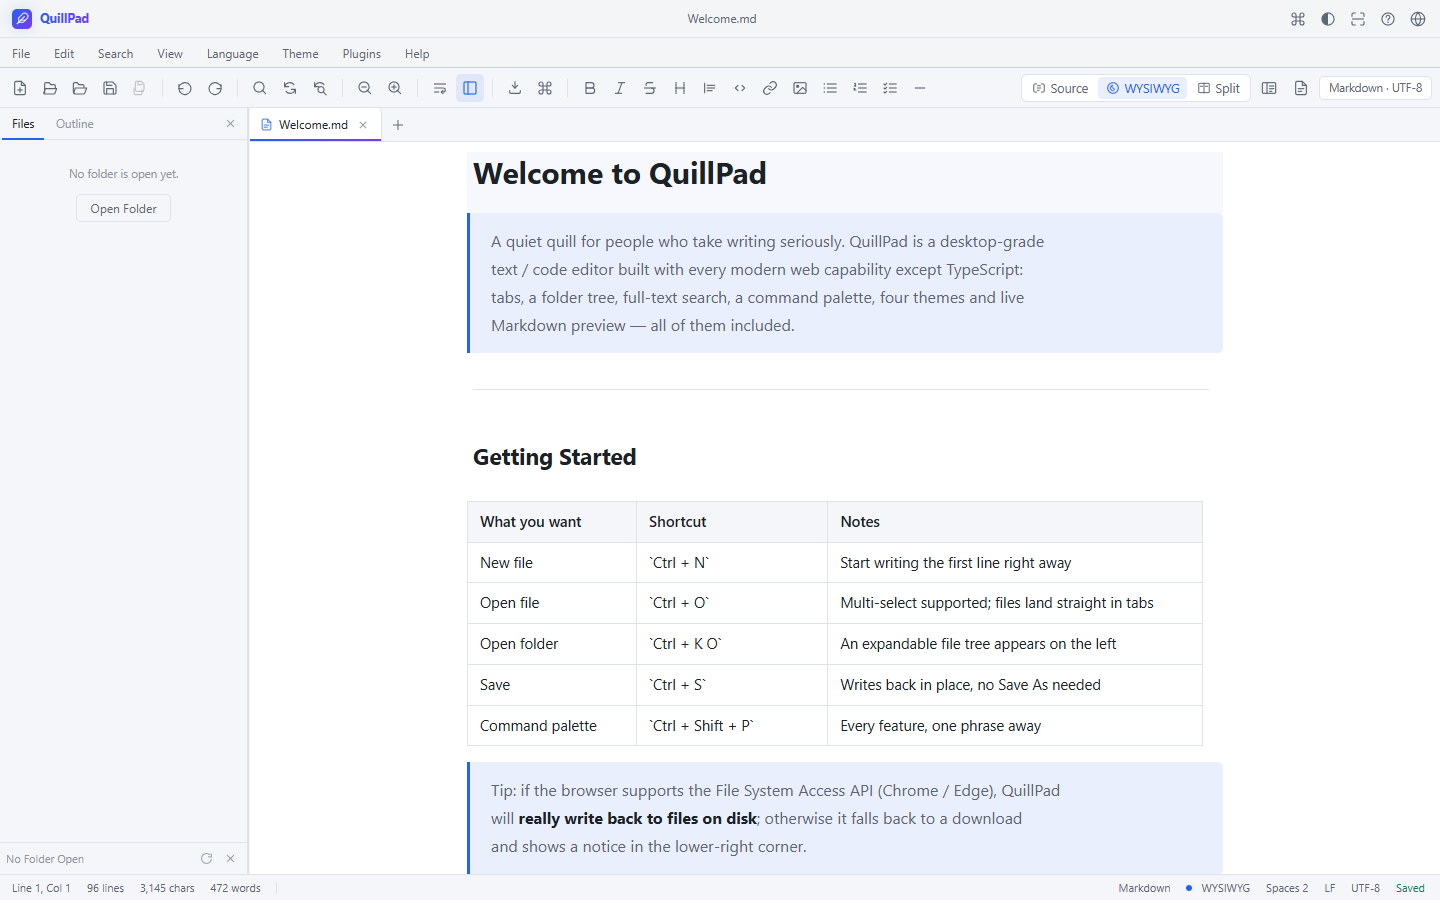
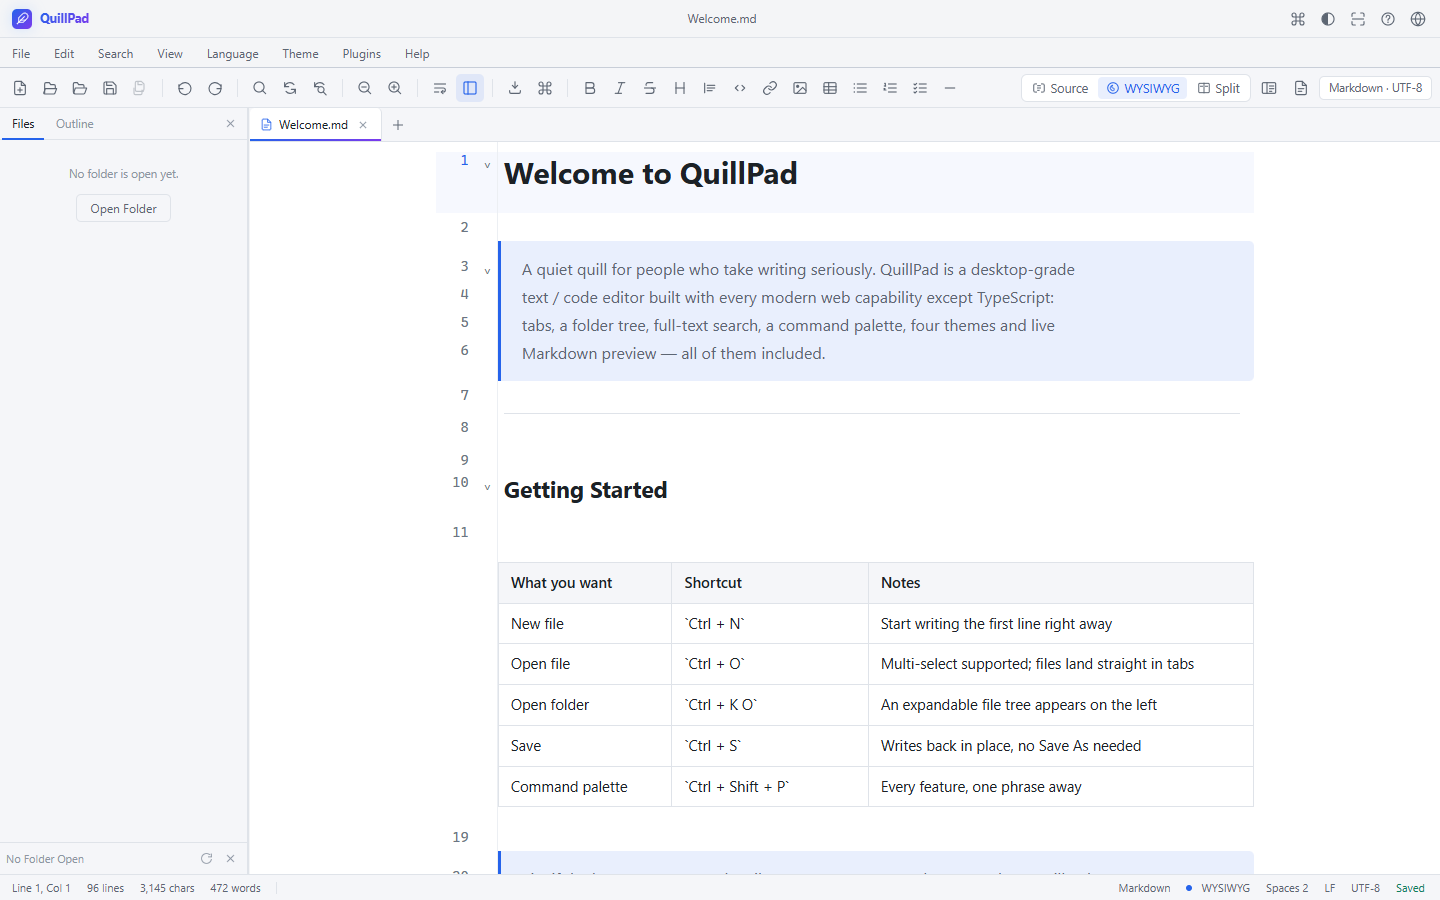
chore(release): 1.0.4 版本号、变更记录与文档同步
- 三处版本号同步到 1.0.4（package.json / package-lock.json / src/core/version.js）
- CHANGELOG 新增 v1.0.4 段：行号栏与折叠箭头回归、插入表格、空行按钮、
  空行高度、--- 选区跳动、表格宽度、围栏行、行末向右键
- README / USER-GUIDE（中英）改掉「所见即所得不显示行号栏」的旧说法，
  补上插入表格与空行按钮的行为
- THIRD-PARTY-NOTICES 三份随版本号重新生成
- README 截图重拍（主界面现在带行号栏与折叠箭头）
- blocks.js 注释里的版本归属改正为 v1.0.4

diff --git a/src/editor/wysiwyg/blocks.js b/src/editor/wysiwyg/blocks.js
@@ -202,7 +202,7 @@ export function computeBlocks(state, opts, prev) {
   }
 
   /* 空行：类名 `qp-blank` 保留给 CSS 与其它模块判「这是无块级语义的空行」，
-     但 v1.0.3 起 CSS 不再压缩它 —— 空行与正文行同高（整行 28px）。 */
+     但 v1.0.4 起 CSS 不再压缩它 —— 空行与正文行同高（整行 28px）。 */
   for (const info of scan.lines) {
     if (!info || info.kind !== 'plain') continue;
     const line = state.doc.line(info.number);

diff --git a/src/core/version.js b/src/core/version.js
@@ -13,9 +13,9 @@
  * `license:check` 的比对都要求纯数字形式。要给人看的带 `v` 形式用下面的
  * `APP_VERSION_LABEL`。
  */
-export const APP_VERSION = '1.0.3';
+export const APP_VERSION = '1.0.4';
 
-/** 展示用版本号：`v1.0.3`（界面上只要出现版本号，一律用这个）。 */
+/** 展示用版本号：`v1.0.4`（界面上只要出现版本号，一律用这个）。 */
 export const APP_VERSION_LABEL = `v${APP_VERSION}`;
 
 /** 产品名。 */

diff --git a/USER-GUIDE.en.md b/USER-GUIDE.en.md
@@ -1,14 +1,14 @@
-# QuillPad 1.0.3 User Guide
+# QuillPad 1.0.4 User Guide
 
-> English · for v1.0.3 · MIT licensed · repository <https://github.com/Frank-TCA/quillpad-desktop>
+> English · for v1.0.4 · MIT licensed · repository <https://github.com/Frank-TCA/quillpad-desktop>
 
 The installers live in `dist/release/` (you can copy them anywhere):
 
 | File | Purpose | Size |
 | --- | --- | --- |
-| `QuillPad-Setup-v1.0.3.exe` | Installer | ~127 MB |
-| `QuillPad-v1.0.3-portable.exe` | Portable | ~115 MB |
-| `QuillPad-Uninstaller-v1.0.3.exe` | Standalone uninstaller (installer build only) | ~80 KB |
+| `QuillPad-Setup-v1.0.4.exe` | Installer | ~128 MB |
+| `QuillPad-v1.0.4-portable.exe` | Portable | ~115 MB |
+| `QuillPad-Uninstaller-v1.0.4.exe` | Standalone uninstaller (installer build only) | ~80 KB |
 
 > Exact byte counts and SHA256 checksums are listed on the corresponding release page.
 
@@ -25,9 +25,10 @@ QuillPad is open source under the MIT license: <https://github.com/Frank-TCA/qui
 
 ### Typesetting and writing
 
-- Three view modes — source / WYSIWYG / split — switch directly with `Ctrl+Shift+1` / `2` / `3`. Source mode is a code editor with a fixed 14 px monospace face; WYSIWYG and the split preview are reading surfaces with a 16 px / 28 px line-height / 736 px (46 em) width sans-serif body. **WYSIWYG shows no line-number column and no fold arrows** (a reading surface does not need them); switch to source or split when you want them.
+- Three view modes — source / WYSIWYG / split — switch directly with `Ctrl+Shift+1` / `2` / `3`. Source mode is a code editor with a fixed 14 px monospace face; WYSIWYG and the split preview are reading surfaces with a 16 px / 28 px line-height / 736 px (46 em) width sans-serif body. All three views keep the line-number column and fold arrows, and in WYSIWYG both stay aligned row by row with the text.
 - WYSIWYG renders headings, bold and italic, strikethrough, inline code, links, quotes, lists, task items, code blocks, tables, images, math (KaTeX), footnotes, and a table of contents in place; source markers appear on the line your cursor is on. A single click selects a whole table block, a double click enters cell editing.
 - Table parsing/serialization, adding and removing rows and columns, cycling column alignment, `Tab` to move between cells; drag or paste an image and it lands in an `assets\` folder next to the document, with a random suffix when the name is taken — existing files are never overwritten.
+- The Markdown toolbar places **Insert table** right after Insert image: one click drops a 3-column, 2-row table skeleton with the caret in the first cell. Bullet, numbered and task lists, Heading 2 and Blockquote also work **on an empty line** (no need to type text first) — the caret lands after the prefix, ready for input.
 - Macro recording, playback, and persistence (a red breathing dot appears in the **bottom-right** of the status bar while recording; click it to stop and name the macro); rectangular (column) selection with insert, delete, align, and number; a searchable panel of ~840 special characters in 10 categories (plus the last 20 you used); find history (up to 20 entries — press `↓` in an empty search box to recall the most recent one).
 - Design tokens (`--qp-*` variables) with four themes; **Reduce Motion** is supported.
 
@@ -51,7 +52,7 @@ QuillPad is open source under the MIT license: <https://github.com/Frank-TCA/qui
 
 ## 2. Using the installer build (recommended)
 
-1. Double-click `QuillPad-Setup-v1.0.3.exe`.
+1. Double-click `QuillPad-Setup-v1.0.4.exe`.
 2. On first run Windows may show “Windows protected your PC”. Every new program without a code-signing certificate gets this prompt; it does not mean the file is infected. Click **More info** → **Run anyway**.
 3. **The installer's own UI is Chinese** — only `zh_CN` is bundled (`installerLanguages: zh_CN`, language id 2052). You can still pick the installation directory on the page with the path field. `perMachine=false`, so it installs into your user profile: no administrator rights and no UAC prompt. You can tick “run now” at the end.
 4. Start menu and desktop shortcuts are created; the uninstaller `Uninstall QuillPad.exe` lives in the installation directory rather than being left behind in your downloads folder.
@@ -76,7 +77,7 @@ Unticked groups are only registered as candidates in **Open with** and never tou
 
 You can change it later without reinstalling: **menu → File → File Associations…**. The dialog is filled from the registry's real state (all default / some / none), and **Apply** only writes the groups that actually differ. Its **Open Windows Default Apps…** button jumps to the system page, where **Settings → Apps → Default apps → QuillPad** also lets you flip individual types.
 
-For unattended deployment that must not touch default associations: `QuillPad-Setup-v1.0.3.exe /S /NOASSOC`.
+For unattended deployment that must not touch default associations: `QuillPad-Setup-v1.0.4.exe /S /NOASSOC`.
 
 All of these entries live under `HKCU`, need no administrator rights, and are unregistered on uninstall — including the default associations, the capability registration (`Software\QuillPad\Capabilities` plus `RegisteredApplications`), the ProgID and the context menu. **Only entries pointing at QuillPad are removed**; a type you later reassigned to another program is left alone.
 
@@ -84,7 +85,7 @@ Right-click any file → **Open with QuillPad** works too. Selecting several fil
 
 ## 3. Using the portable build
 
-1. Put `QuillPad-v1.0.3-portable.exe` by itself in an empty folder (a USB stick works) and double-click it. It is a single-file self-extracting package: nothing to install, no registry writes, no shortcuts.
+1. Put `QuillPad-v1.0.4-portable.exe` by itself in an empty folder (a USB stick works) and double-click it. It is a single-file self-extracting package: nothing to install, no registry writes, no shortcuts.
 2. Startup takes 3–5 seconds because the single-file build unpacks itself into the system temp directory each time.
 3. All user data (session, theme, recent files, window position, macros, plugins and their state, caches) is written to a `QuillPad-Data\` folder **next to the exe**. Measured: after a run that folder holds 81 files including `window-state.json`, and `%APPDATA%\QuillPad` gains nothing while the portable build runs.
 4. To move to another machine, copy the exe together with `QuillPad-Data\` and all your settings come along.
@@ -96,7 +97,7 @@ Right-click any file → **Open with QuillPad** works too. Selecting several fil
 1. Start menu → the **卸载 QuillPad** shortcut;
 2. `Uninstall QuillPad.exe` in the installation directory;
 3. Windows **Settings → Apps → Installed apps** (or **Programs and Features** in Control Panel) → select **QuillPad 文本编辑器** → Uninstall;
-4. Double-click the distributed `QuillPad-Uninstaller-v1.0.3.exe` (the standalone uninstaller, about 78 KB).
+4. Double-click the distributed `QuillPad-Uninstaller-v1.0.4.exe` (the standalone uninstaller, about 78 KB).
 
 All four run the same cleanup logic and behave identically — pick whichever is convenient.
 
@@ -112,8 +113,8 @@ The fourth one is a small tool with its own scavenger that depends on nothing in
 Command line (for scripts and batch files):
 
 ```bat
-QuillPad-Uninstaller-v1.0.3.exe /S          silent uninstall, no dialogs
-QuillPad-Uninstaller-v1.0.3.exe /SCAN /S    scan only, delete nothing
+QuillPad-Uninstaller-v1.0.4.exe /S          silent uninstall, no dialogs
+QuillPad-Uninstaller-v1.0.4.exe /SCAN /S    scan only, delete nothing
 ```
 
 Exit codes: `0` = clean, `1` = traces found, `2` = some items could not be deleted, `3` = cancelled by the user.
@@ -135,7 +136,7 @@ Deleting only the installation directory leaves dead entries in the context menu
 
 ### Portable build
 
-No registry writes and no shortcuts, so **no uninstaller is needed**: delete `QuillPad-v1.0.3-portable.exe` and the `QuillPad-Data\` folder next to it. Measured: afterwards only the exe remains in its folder, `%APPDATA%\QuillPad` has gained nothing, and no user data is left on the system.
+No registry writes and no shortcuts, so **no uninstaller is needed**: delete `QuillPad-v1.0.4-portable.exe` and the `QuillPad-Data\` folder next to it. Measured: afterwards only the exe remains in its folder, `%APPDATA%\QuillPad` has gained nothing, and no user data is left on the system.
 
 ### The one-line difference
 

diff --git a/USER-GUIDE.zh-CN.md b/USER-GUIDE.zh-CN.md
@@ -1,14 +1,14 @@
-# QuillPad 1.0.3 使用说明
+# QuillPad 1.0.4 使用说明
 
-> 简体中文 · 对应 v1.0.3 · MIT 许可 · 仓库 <https://github.com/Frank-TCA/quillpad-desktop>
+> 简体中文 · 对应 v1.0.4 · MIT 许可 · 仓库 <https://github.com/Frank-TCA/quillpad-desktop>
 
 安装包位于 `dist/release/` 目录（可复制到任意位置使用）：
 
 | 文件 | 说明 | 大小 |
 | --- | --- | --- |
-| `QuillPad-Setup-v1.0.3.exe` | 安装版 | 约 127 MB |
-| `QuillPad-v1.0.3-portable.exe` | 便携版 | 约 115 MB |
-| `QuillPad-Uninstaller-v1.0.3.exe` | 独立卸载器（仅安装版需要） | 约 80 KB |
+| `QuillPad-Setup-v1.0.4.exe` | 安装版 | 约 128 MB |
+| `QuillPad-v1.0.4-portable.exe` | 便携版 | 约 115 MB |
+| `QuillPad-Uninstaller-v1.0.4.exe` | 独立卸载器（仅安装版需要） | 约 80 KB |
 
 > 每个文件的精确字节数与 SHA256 见对应 Release 页面的附件说明。
 
@@ -25,9 +25,10 @@
 
 ### 排版与写作
 
-- 三种视图：源码 / 所见即所得（WYSIWYG）/ 分栏；`Ctrl+Shift+1` / `2` / `3` 直切。源码模式是代码编辑器，保持 14px 等宽字体；WYSIWYG 与分栏预览是阅读面，统一 16px / 行高 28px / 栏宽 736px（46em）无衬线正文。**所见即所得不显示行号栏与折叠箭头**（阅读面不需要），需要行号与折叠请切到源码或分栏。
+- 三种视图：源码 / 所见即所得（WYSIWYG）/ 分栏；`Ctrl+Shift+1` / `2` / `3` 直切。源码模式是代码编辑器，保持 14px 等宽字体；WYSIWYG 与分栏预览是阅读面，统一 16px / 行高 28px / 栏宽 736px（46em）无衬线正文。三种视图都带行号栏与折叠箭头，所见即所得下两者与正文逐行对齐。
 - WYSIWYG 就地渲染标题、粗斜体、删除线、行内代码、链接、引用、列表、任务项、代码块、表格、图片、公式（KaTeX）、脚注与目录；光标进入该行时按需露出源码标记。表格单击选中整个表格块，双击才进入单元格编辑。
 - 表格解析/序列化、行列增删、列对齐循环、`Tab` 跳格；图片拖拽/粘贴后落到文档同目录 `assets\`，同名自动加随机后缀，不会覆盖已有文件。
+- Markdown 工具栏在「插入图片」之后紧接「插入表格」，一键落一张 3 列 2 行的表格骨架、光标进首格；有序/无序/任务列表、二级标题、引用这些按钮**在空行上直接点也生效**（不必先敲字），点完光标落在前缀之后，可以接着输入。
 - 宏录制/回放/持久化（录制中状态栏**右下角**出现红色呼吸圆点，点它即可停止并命名保存）；矩形（列）选区的插入、删除、对齐、编号；10 个分类、共约 840 个特殊字符的检索面板（另带「最近使用 20 条」）；查找历史（最多 20 条，空输入框按 `↓` 回填最近一条）。
 - 排版 token（`--qp-*` 变量）与四套主题；支持「减少动效」。
 
@@ -51,7 +52,7 @@
 
 ## 二、安装版用法（推荐）
 
-1. 双击 `QuillPad-Setup-v1.0.3.exe`。
+1. 双击 `QuillPad-Setup-v1.0.4.exe`。
 2. 首次运行可能弹「Windows 已保护你的电脑」—— 这是未购买代码签名证书的新程序都会有的提示，不是病毒。点「更多信息」→「仍要运行」。
 3. 安装器是中文界面，可选安装目录；`perMachine=false`，装到当前用户目录，不需要管理员权限、不弹 UAC。装完可勾选立即运行。
 4. 会创建开始菜单与桌面快捷方式；卸载程序 `Uninstall QuillPad.exe` 就在安装目录里，不会单独留在下载文件夹。
@@ -76,7 +77,7 @@
 
 装完之后还能改：**菜单 → 文件 → 文件关联…**。对话框按注册表真实状态回填（全部为默认 / 部分 / 未设），勾选后点「应用」，只对发生变化的组写一次；里面的「打开 Windows 默认应用设置…」直接跳到系统页面，也能在「设置 → 应用 → 默认应用 → QuillPad」里逐项改。
 
-企业批量部署想完全不动默认关联：`QuillPad-Setup-v1.0.3.exe /S /NOASSOC`。
+企业批量部署想完全不动默认关联：`QuillPad-Setup-v1.0.4.exe /S /NOASSOC`。
 
 这些注册项都在 `HKCU` 下，不需要管理员权限；卸载时默认关联、能力注册（`Software\QuillPad\Capabilities` 与 `RegisteredApplications`）、ProgID、右键菜单全部反注册。**只撤销指向 QuillPad 的项**：你后来自己改回别的程序的类型不会被误删。
 
@@ -84,7 +85,7 @@
 
 ## 三、便携版用法
 
-1. 把 `QuillPad-v1.0.3-portable.exe` 单独放到一个空文件夹（例如 U 盘目录），双击即可运行。它是单文件自解压包，不需要安装、不写注册表、不创建快捷方式。
+1. 把 `QuillPad-v1.0.4-portable.exe` 单独放到一个空文件夹（例如 U 盘目录），双击即可运行。它是单文件自解压包，不需要安装、不写注册表、不创建快捷方式。
 2. 启动要 3–5 秒：单文件版每次会先把自身解压到系统临时目录。
 3. 所有用户数据（会话、主题、最近文件、窗口位置、宏、插件与插件状态、缓存）都写在 exe **同目录**下的 `QuillPad-Data\` 文件夹里。实测：运行后该目录含 `window-state.json` 等 81 个文件；`%APPDATA%\QuillPad` 在便携运行期间没有新增任何文件。
 4. 更换电脑或移动 exe 时，连同 `QuillPad-Data\` 一起拷贝即可带走全部设置。
@@ -96,7 +97,7 @@
 1. 开始菜单 →「卸载 QuillPad」快捷方式；
 2. 安装目录下的 `Uninstall QuillPad.exe`；
 3. Windows「设置 → 应用 → 已安装的应用」（或控制面板「程序和功能」）里选中「QuillPad 文本编辑器」→ 卸载；
-4. 直接双击分发文件 `QuillPad-Uninstaller-v1.0.3.exe`（独立卸载器，约 78 KB）。
+4. 直接双击分发文件 `QuillPad-Uninstaller-v1.0.4.exe`（独立卸载器，约 78 KB）。
 
 四个入口执行的是同一套清理逻辑，效果一致，任选其一。
 
@@ -112,8 +113,8 @@
 命令行用法（脚本 / 批处理）：
 
 ```bat
-QuillPad-Uninstaller-v1.0.3.exe /S          静默卸载，不弹对话框
-QuillPad-Uninstaller-v1.0.3.exe /SCAN /S    只扫描不删除
+QuillPad-Uninstaller-v1.0.4.exe /S          静默卸载，不弹对话框
+QuillPad-Uninstaller-v1.0.4.exe /SCAN /S    只扫描不删除
 ```
 
 退出码：`0` = 干净，`1` = 有痕迹，`2` = 清理时有删不掉的项，`3` = 用户取消。
@@ -135,7 +136,7 @@ QuillPad-Uninstaller-v1.0.3.exe /SCAN /S    只扫描不删除
 
 ### 便携版
 
-不写任何注册表、不建快捷方式，因此**不需要卸载程序**：直接删除 `QuillPad-v1.0.3-portable.exe` 和同目录的 `QuillPad-Data\` 文件夹即可。实测删除 `QuillPad-Data\` 后，exe 所在目录只剩 exe 本身，`%APPDATA%\QuillPad` 无新增文件，系统里不残留用户数据。
+不写任何注册表、不建快捷方式，因此**不需要卸载程序**：直接删除 `QuillPad-v1.0.4-portable.exe` 和同目录的 `QuillPad-Data\` 文件夹即可。实测删除 `QuillPad-Data\` 后，exe 所在目录只剩 exe 本身，`%APPDATA%\QuillPad` 无新增文件，系统里不残留用户数据。
 
 ### 一句话区别
 

diff --git a/CHANGELOG.md b/CHANGELOG.md
@@ -2,6 +2,45 @@
 
 本项目遵循 [语义化版本](https://semver.org/lang/zh-CN/)。
 
+## [v1.0.4] - 2026-11-18
+
+### 新增
+
+- **所见即所得恢复行号栏与折叠箭头。** 三种视图统一装配 gutter（`lineNumbers` +
+  `highlightActiveLineGutter` + `foldGutter`）。所见即所得下行高由块级元素（标题、
+  表格、代码块、图片）撑开，与 gutter 自己的行盒不一致，因此按「槽高 → 该行首字符
+  rect」做几何反解、逐行算出 `line-height`，再配合 `requestMeasure` 多轮收敛与
+  `MutationObserver` 兜底（CodeMirror 跨视口会重建 gutter 节点并丢掉内联样式）。
+  实测 57 行 sweep 逐行偏差最大 1px，四套主题下行号对比度 4.67–4.99，折叠箭头
+  点得动、展得开。
+- **Markdown 工具栏新增「插入表格」**，位置紧跟「插入图片」；一键落一张 3 列 2 行
+  骨架，光标落在首格，可以直接打字。
+- **列表 / 标题 / 引用按钮支持空行直接生效**：整行没有文字时点按钮，先插前缀再把
+  光标放到前缀之后，可以接着输入；再点一次干净回退，不会留下 `- - ` 这种残迹。
+
+### 修复
+
+- **空行不再被压扁。** `--qp-blank-h` 原先固定 12px，改为按正文行高计算
+  （16px × 1.75 = 28px），空行与正文行同高；表格后的第一条空行也正常渲染
+  （块级表格 widget 原先把紧邻的换行符一起吃掉，现在给表格留出换行）。
+- **选区盖住 `---` 时下方标题跳动 23px。** 分隔线的间距样式原挂在
+  `:has(.qp-hr)` 上，依赖 widget 的渲染状态；选区覆盖该行时 widget 撤下、选择器
+  失配，padding 立刻跳变。改为与 widget 无关的稳定行类 `qp-hr-line`。实测 h1 的
+  `padding-top` 在三段选区状态下恒为 19.04px，文档总高 732px 不动。
+- **行末按 `→` 不再跳到下一行。** 所有文档类型、三种视图行为一致：空选区且光标
+  在行尾时 `→` 被吞掉；行中照常右移，`Shift+→` 仍扩选，软换行处不过度拦截。
+- **表格宽度与代码块、引用对齐。** 表格列宽只扣自身内边距，不再重复扣
+  `.cm-line` 的左右内边距；实测三者左右边缘差 0px。
+- **代码块围栏独占一行空间。** 开头与结尾的 ``` 不再被折成 0 高，与代码行同字号
+  同高、承载上下内边距与圆角，代码块上下间距恢复对称。
+
+### 说明
+
+- 代码块内的行号（开发期曾加入）按需求撤销，块内只保留文档行号。
+- 源码 / 分栏两种视图的 gutter 行为与对齐断言未改动；`scripts/fold-check.mjs`
+  新增「所见即所得逐行对齐 ≤1.5px」断言，装机冒烟第 4 组同步改为「有槽位且对齐」。
+- 版本号同步到 `1.0.4`（`package.json` / `package-lock.json` / `src/core/version.js`）。
+
 ## [v1.0.3] - 2026-11-17
 
 ### 修复

diff --git a/README.en.md b/README.en.md
@@ -40,7 +40,7 @@ to first-class features:
 
 | Capability | Details |
 | --- | --- |
-| Three view modes | Source / WYSIWYG / split, switch with `Ctrl+Shift+1/2/3`; WYSIWYG is a pure reading surface with no line-number column and no fold arrows |
+| Three view modes | Source / WYSIWYG / split, switch with `Ctrl+Shift+1/2/3`; WYSIWYG keeps the line-number column and fold arrows too, aligned row by row with the text |
 | Syntax highlighting | 40 languages across 100+ extensions, grouped by family (web, data, scripting, systems, documents) |
 | Multi-cursor & column selection | `Ctrl+Alt+↑/↓` to add cursors; rectangular insert, delete, align, and numbering |
 | Find & replace | Regex, whole word, case sensitivity, in-selection replace, 20-entry history |
@@ -105,9 +105,9 @@ Get the latest build from [Releases](https://github.com/Frank-TCA/quillpad-deskt
 
 | File | Description |
 | --- | --- |
-| `QuillPad-Setup-v1.0.3.exe` | Installer: choose the install directory, desktop and Start menu shortcuts, a **file-association page (tick to make QuillPad the default)**, shell context-menu integration, trace-cleaning uninstaller |
-| `QuillPad-v1.0.3-portable.exe` | Portable: single file, no installation, data in a sibling `QuillPad-Data/` folder — delete it and nothing is left behind |
-| `QuillPad-Uninstaller-v1.0.3.exe` | Standalone uninstaller (~80 KB): scans and deep-cleans installation directories, user data, shortcuts, file associations, and registry leftovers from **previous versions**; only needed for the installer build |
+| `QuillPad-Setup-v1.0.4.exe` | Installer: choose the install directory, desktop and Start menu shortcuts, a **file-association page (tick to make QuillPad the default)**, shell context-menu integration, trace-cleaning uninstaller |
+| `QuillPad-v1.0.4-portable.exe` | Portable: single file, no installation, data in a sibling `QuillPad-Data/` folder — delete it and nothing is left behind |
+| `QuillPad-Uninstaller-v1.0.4.exe` | Standalone uninstaller (~80 KB): scans and deep-cleans installation directories, user data, shortcuts, file associations, and registry leftovers from **previous versions**; only needed for the installer build |
 
 **File associations**: the installer has a *File Associations* page — four groups (Markdown / plain text & logs / 31 code types / 15 config & data types, 50 extensions in total, all ticked by default). Ticked types become the **actual default** and open in QuillPad on double-click. You can change it later via **menu → File → File Associations…** (filled from the registry's real state, only the groups that differ are written) or jump to Windows' *Default apps* page. Unattended deployment that must not touch defaults: `/S /NOASSOC`.
 
